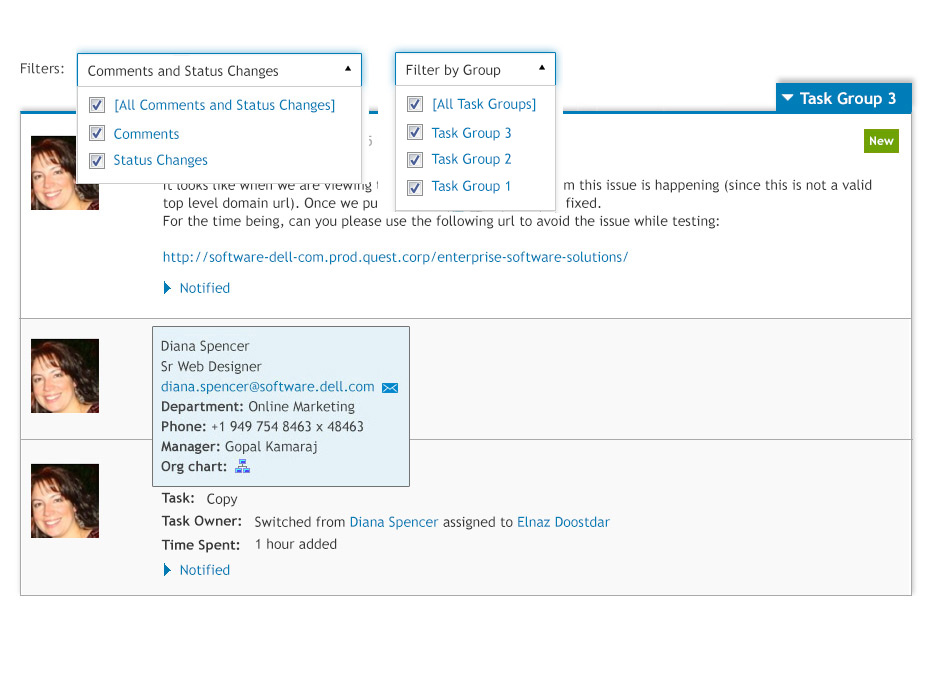
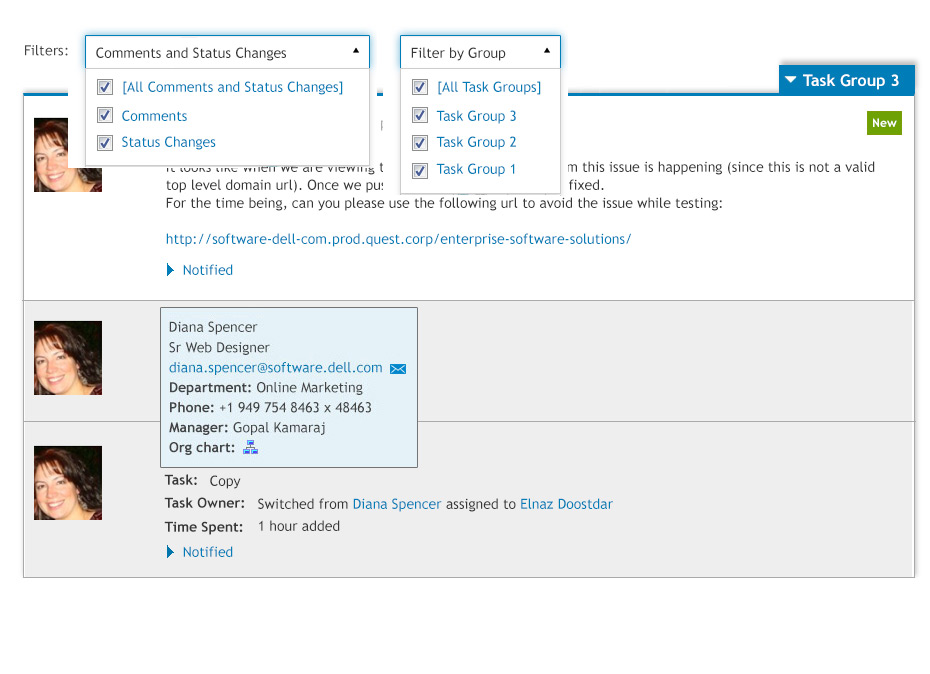
Added most recent mockups and created ribbon-v2-tmpl.htm to keep Elnaz filter code

diff --git a/SingleQueue/pages/view_requests/view-requests-filters-v2.html b/SingleQueue/pages/view_requests/view-requests-filters-v2.html
@@ -1,0 +1,226 @@
+<!DOCTYPE html >
+<html>
+<head lang="en">
+  <meta charset="UTF-8">
+  <title>View Request Listings</title>
+  <meta http-equiv="X-UA-Compatible" content="IE=edge"/>
+  <!-- Kendo and IS JS and Styles -->
+  <script type="text/javascript">
+    //document.location.href = document.location.href.replace("/v2", "/mk/");
+    var RootPath = "http://qa-o2.prod.quest.corp/v2/";
+    var WebMarketingRootPath = "http://webmarketingstage.prod.quest.corp";
+    var O2URL = "http" + '://' + "qa-o2.prod.quest.corp" + "http://qa-o2.prod.quest.corp/v2/";
+  </script>
+
+  <script type="text/javascript" src="http://qa-o2.prod.quest.corp/v2/Static/Scripts/jquery-1.10.2.min.js"></script>
+  <script type="text/javascript"
+          src="http://qa-o2.prod.quest.corp/v2/Static/Scripts/jquery-migrate-1.2.1.min.js"></script>
+
+  <!-- multiple-select jquery plugin -->
+  <script src="../../static/js/jquery.multiple.select.min.js"></script>
+
+
+  <script type="text/javascript" src="http://qa-o2.prod.quest.corp/v2/Static/Scripts/jquery.validate.min.js"></script>
+  <script type="text/javascript"
+          src="http://qa-o2.prod.quest.corp/v2/Static/Scripts/jquery.validate.unobtrusive.min.js"></script>
+  <script type="text/javascript" src="http://qa-o2.prod.quest.corp/v2/Static/Scripts/jqueryDateFormat.js"></script>
+
+  <script type="text/javascript"
+          src="http://qa-o2.prod.quest.corp/v2/Static/Scripts/RequestQueues/jquery.placeholder.min.js"></script>
+  <script type="text/javascript"
+          src="http://qa-o2.prod.quest.corp/v2/Static/Library/bowser-master/bowser.min.js"></script>
+  <script type="text/javascript" src="http://qa-o2.prod.quest.corp/v2/View-Scripts/Common.js"></script>
+  <script type="text/javascript" src="//code.jquery.com/ui/1.10.3/jquery-ui.js"></script>
+  <script type="text/javascript" src='http://qa-o2.prod.quest.corp/v2/Static/Scripts/moment.min.js'></script>
+
+  <link href="http://qa-o2.prod.quest.corp/v2/Static/Content/kendo/2015.1.318/kendo.requestqueues.css" rel="stylesheet"
+        type="text/css"/>
+  <script type="text/javascript"
+          src="http://qa-o2.prod.quest.corp/v2/Static/Scripts/kendo/2015.1.429/kendo.all.min.js"></script>
+  <script type="text/javascript"
+          src="http://qa-o2.prod.quest.corp/v2/Static/Scripts/kendo/2015.1.429/kendo.aspnetmvc.min.js"></script>
+
+  <script type="text/javascript" src="http://qa-o2.prod.quest.corp/v2/Static/Scripts/jquery.cookie.js"></script>
+  <!--<script type="text/javascript" src="http://qa-o2.prod.quest.corp/v2/Static/Scripts/RequestQueues/web-queue-plugins.js"></script>-->
+  <script type="text/javascript"
+          src="http://qa-o2.prod.quest.corp/v2/Static/Scripts/RequestQueues/qtip/jquery.qtip.js"></script>
+  <script type="text/javascript"
+          src='http://qa-o2.prod.quest.corp/v2/Static/Scripts/fullcalendar/fullcalendar.min.js'></script>
+  <script type="text/javascript" src='http://qa-o2.prod.quest.corp/v2/Static/Scripts/browser-warning.js'></script>
+  <script type="text/javascript" src="http://qa-o2.prod.quest.corp/v2/Static/Scripts/TimeZone.js"></script>
+
+  <link rel="stylesheet" href="../../static/css/bootstrap.min.css"/>
+  <link rel="stylesheet" href="//code.jquery.com/ui/1.10.3/themes/smoothness/jquery-ui.css">
+  <!--<link rel="stylesheet" href="http://qa-o2.prod.quest.corp/v2/Static/Content/RequestQueues/RequestQueues.css">
+	<link rel="stylesheet" href="http://qa-o2.prod.quest.corp/v2/Static/Content/RequestQueues/Header.css">-->
+
+  <!--<link rel="stylesheet" href="http://qa-o2.prod.quest.corp/v2/Static/CSS/web-queue-plugins-style.css" />-->
+  <link rel="stylesheet" href="http://qa-o2.prod.quest.corp/v2/Static/CSS/smoothness/jquery-ui-1.9.2.custom.css"/>
+  <link rel="stylesheet" href="http://qa-o2.prod.quest.corp/v2/Static/Scripts/RequestQueues/qtip/jquery.qtip.css"/>
+  <link rel="stylesheet" href="http://qa-o2.prod.quest.corp/v2/Static/CSS/smoothness/jquery-ui-1.9.2.custom.css"/>
+  <link rel="stylesheet" href="http://qa-o2.prod.quest.corp/v2/Static/Scripts/RequestQueues/qtip/jquery.qtip.css"/>
+  <link rel="stylesheet" href="http://qa-o2.prod.quest.corp/v2/Static/Scripts/fullcalendar/fullcalendar.min.css"/>
+  <link rel="stylesheet" href="http://qa-o2.prod.quest.corp/v2/Static/CSS/warning.css"/>
+
+
+  <!--<script type="text/javascript" src="http://qa-o2.prod.quest.corp/v2/Static/Scripts/singlequeue.js"></script>-->
+  <link rel="stylesheet" href="http://qa-o2.prod.quest.corp/v2/Static/CSS/project-form.css">
+
+  <script>
+    kendo.culture("en-US");
+  </script>
+
+  <style>
+    #tabs > ul > li.ui-tabs-active a {
+      cursor: pointer !important;
+    }
+  </style>
+  <script type="text/javascript">
+    $(function () {
+      var a = setTimeout(function () {
+
+
+        if ($('#tabs').length > 0) {
+          clearInterval(a);
+          $('#tabs').tabs({
+            active: 0,
+            beforeActivate: function (event, ui) {
+              return CheckParentDataChanges();
+            },
+            activate: function (event, ui) {
+              //Add/Remove vertical pipe on the tabs when an individual tab is activated.
+              var indx = $('#tabs').find('> ul > li').index(ui.newTab);
+              //alert(indx);
+              var id = ui.newTab.find('a').attr('href');
+
+              if (!$(id).data('processed')) {
+                if (id == '#oasis2') {
+                  window.parent.location.href = "http://stage-o2.prod.quest.corp/";
+                  $('#sub-logo').attr('src', '/images/portal/images/sublogo-oasis2.png');
+                } else {
+                  window.parent.location.href = "http://stage-o2.prod.quest.corp/mk/RequestQueues/Requests/";
+                  $('#sub-logo').attr('src', '/images/portal/images/sublogo-marketing-request-queue.png');
+                }
+
+                $(id).data('processed', true);
+              }
+
+              var imgsrc = '';
+              var linkurl = '';
+
+              if (id == '#oasis2') {
+                imgsrc = '/images/portal/images/sublogo-oasis2.png';
+                linkurl = 'http://stage-o2.prod.quest.corp/'
+              } else {
+                imgsrc = '/images/portal/images/sublogo-marketing-request-queue.png';
+                linkurl = 'http://stage-o2.prod.quest.corp/mk/RequestQueues/Requests/'
+              }
+
+              $('#sub-logo').attr('src', imgsrc);
+              $('#sub-logo-link').attr('href', linkurl);
+
+              $('#tabs').find('> ul > li').removeClass('hide-pipe');
+
+              if (indx) {
+                for (var c = indx - 1; c >= 0; c--) {
+                  var tab = $('#tabs').find('> ul > li:eq(' + c + ')');
+
+                  if (tab.is(':visible')) {
+                    tab.addClass('hide-pipe');
+                    break;
+                  }
+                }
+              }
+
+            }
+          });
+          $('#tabs').show();
+        }
+
+        $("a#ui-id-1").click(function () {
+          if ("0" == "0") {
+            if (CheckParentDataChanges()) {
+              window.parent.location.href = "http://stage-o2.prod.quest.corp/mk/RequestQueues/Requests/";
+            }
+          }
+        });
+      }, 10);
+    });
+
+    function doSearch() {
+      var q = document.getElementById("search-query").value;
+      var t = 0;
+      var targets = document.getElementsByName("searchtype");
+      for (var i = 0; i < targets.length; i++) {
+        if (targets[i].checked) {
+          t = targets[i].value;
+        }
+      }
+
+      if (q.length > 0) {
+        var searchUrl = "/include/search.aspx?q=" + encodeURIComponent(q) + "&t=" + t;
+        window.open(searchUrl, "_blank");
+      }
+
+      return false;
+    }
+
+    function onSearchKeyPress(e) {
+      if (e.keyCode == 13) {
+        doSearch();
+      }
+    }
+
+    function CheckParentDataChanges() {
+      try {
+        if (typeof parent.CheckDataChanges == 'undefined') {
+          return true;
+        } else {
+          if (parent.CheckDataChanges()) {
+            parent.ClearDataChangesCheck();
+            return true;
+          } else {
+            return false;
+          }
+        }
+      } catch (e) {
+      }
+    }
+  </script>
+
+  <!-- */ End of Kendo and IS JS and Styles -->
+
+  <!-- Global ui styles and js -->
+  <link rel="stylesheet" href="../../static/css/custom-ui.css"/>
+  <script src="../../static/js/custom-ui.js"></script>
+
+  <!-- template only styles and js -->
+  <script src="view-requests.js"></script>
+
+
+</head>
+<body>
+<div id="body-content">
+  <div id="top" class="wrapper"></div>
+  <div id="content" class="wrapper">
+    <div class="data-heading">
+
+    </div>
+  </div>
+
+
+  <script>
+    //Load the template definition from an external file
+    templateLoader.loadExtTemplate("../../widgets/top-area.tmpl.htm", "#top");
+    templateLoader.loadExtTemplate("../../widgets/ribbon-v2.tmpl.htm", "#top");
+    templateLoader.loadExtTemplate("../../widgets/view-view-widget.tmpl.htm", ".data-heading");
+    templateLoader.loadExtTemplate("../../widgets/views/view-requests-table.tmpl.htm", '#content', ['../../static/js/single-queue.js']);
+    //templateLoader parameter mapping:
+    // param 1: path to htm template
+    // param 2: Element to append the template - defaults to .wrapper
+    // param 3: Array with paths to scripts that need to be executed after templates are loaded.
+  </script>
+  <script src="../../static/js/dsg-bootstrap/bootstrap-3.3.4.min.js"></script>
+</div>
+</body>
+</html>

diff --git a/SingleQueue/static/js/ribbon.js b/SingleQueue/static/js/ribbon.js
@@ -1,0 +1,30 @@
+//
+
+var ribbon = (function () {
+
+  rbFilters = {
+    views: getThisFilters('viewsID'),
+    sprint: getThisFilters('sprintsID'),
+    reqStatus: getThisFilters('reqStatus'),
+    otherFilters: {
+      departments: getThisFilters('departmentsID'),
+      reqType: getThisFilters('reqTypeID'),
+      taskType: getThisFilters('taskTypeID'),
+      requester: getThisFilters('requesterID'),
+      portfolio: getThisFilters('portfolioID'),
+      started: getThisFilters('portfolioID'),
+      owner: getThisFilters('portfolioID'),
+      moreFilters: {},
+      getMoreFilters: function () {
+      }
+    },
+    set: function () {
+    },
+    get: function () {
+    }
+  };
+
+
+}());
+
+

diff --git a/SingleQueue/widgets/ribbon-v2.tmpl.htm b/SingleQueue/widgets/ribbon-v2.tmpl.htm
@@ -412,7 +412,7 @@
   </ul>
 
 </div>
-<div class="filter-collector hz-filters">
+<div class="filter-collector">
   <ul>
     <li>
       My Work: <a href="#">X</a>
@@ -430,6 +430,8 @@
       <a href="#">X</a>
     </li>
   </ul>
+</div>
+<div class="filter-collector">
   <ul>
     <li>
       Sprints: <a href="#">X</a>
@@ -439,6 +441,8 @@
       <a href="#">X</a>
     </li>
   </ul>
+</div>
+<div class="filter-collector">
   <ul>
     <li>
       Request Status: <a href="#">X</a>
@@ -452,6 +456,8 @@
       <a href="#">X</a>
     </li>
   </ul>
+</div>
+<div class="filter-collector">
   <ul>
     <li>
       Task Status: <a href="#">X</a>
@@ -462,4 +468,3 @@
     </li>
   </ul>
 </div>
-

diff --git a/SingleQueue/static/css/custom-ui.css b/SingleQueue/static/css/custom-ui.css
@@ -1848,7 +1848,8 @@ ul {
   .filter-collector li {
     display: inline-block;
     float: left;
-    margin-right: 10px; }
+    margin-right: 12px;
+  }
     .filter-collector li:first-child {
       margin-left: 10px; }
     .filter-collector li a {
@@ -1859,6 +1860,10 @@ ul {
     .filter-collector li span {
       color: #999;
       font-size: 14px; }
+
+.filter-collector.hz-filters ul {
+  display: inline;
+}
 
 .summary {
   border-radius: 3px;

diff --git a/SingleQueue/static/css/partials/_ribbon.scss b/SingleQueue/static/css/partials/_ribbon.scss
@@ -529,7 +529,7 @@
   li {
     display: inline-block;
     float: left;
-    margin-right: 10px;
+    margin-right: 12px;
     &:first-child {
       margin-left: 10px;
     }
@@ -544,6 +544,12 @@
       color: #999;
       font-size: 14px;
     }
+  }
+}
+
+.filter-collector.hz-filters {
+  ul {
+    display: inline;
   }
 }
 
